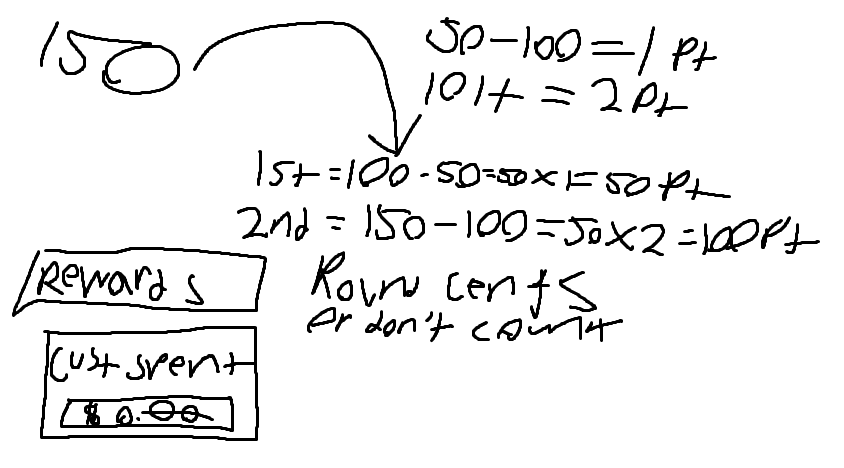
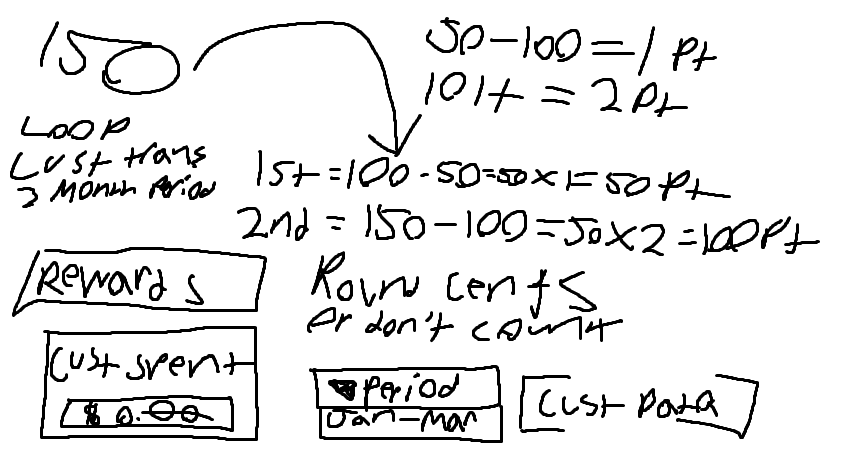
updated thought process, and add customer transaction function

diff --git a/portals-dev-test/src/CustomerTrans.jsx b/portals-dev-test/src/CustomerTrans.jsx
@@ -1,0 +1,7 @@
+import CustomerMath from "./CustomerMath";
+
+function CustomerTrans() {
+
+}
+
+export default CustomerTrans;
